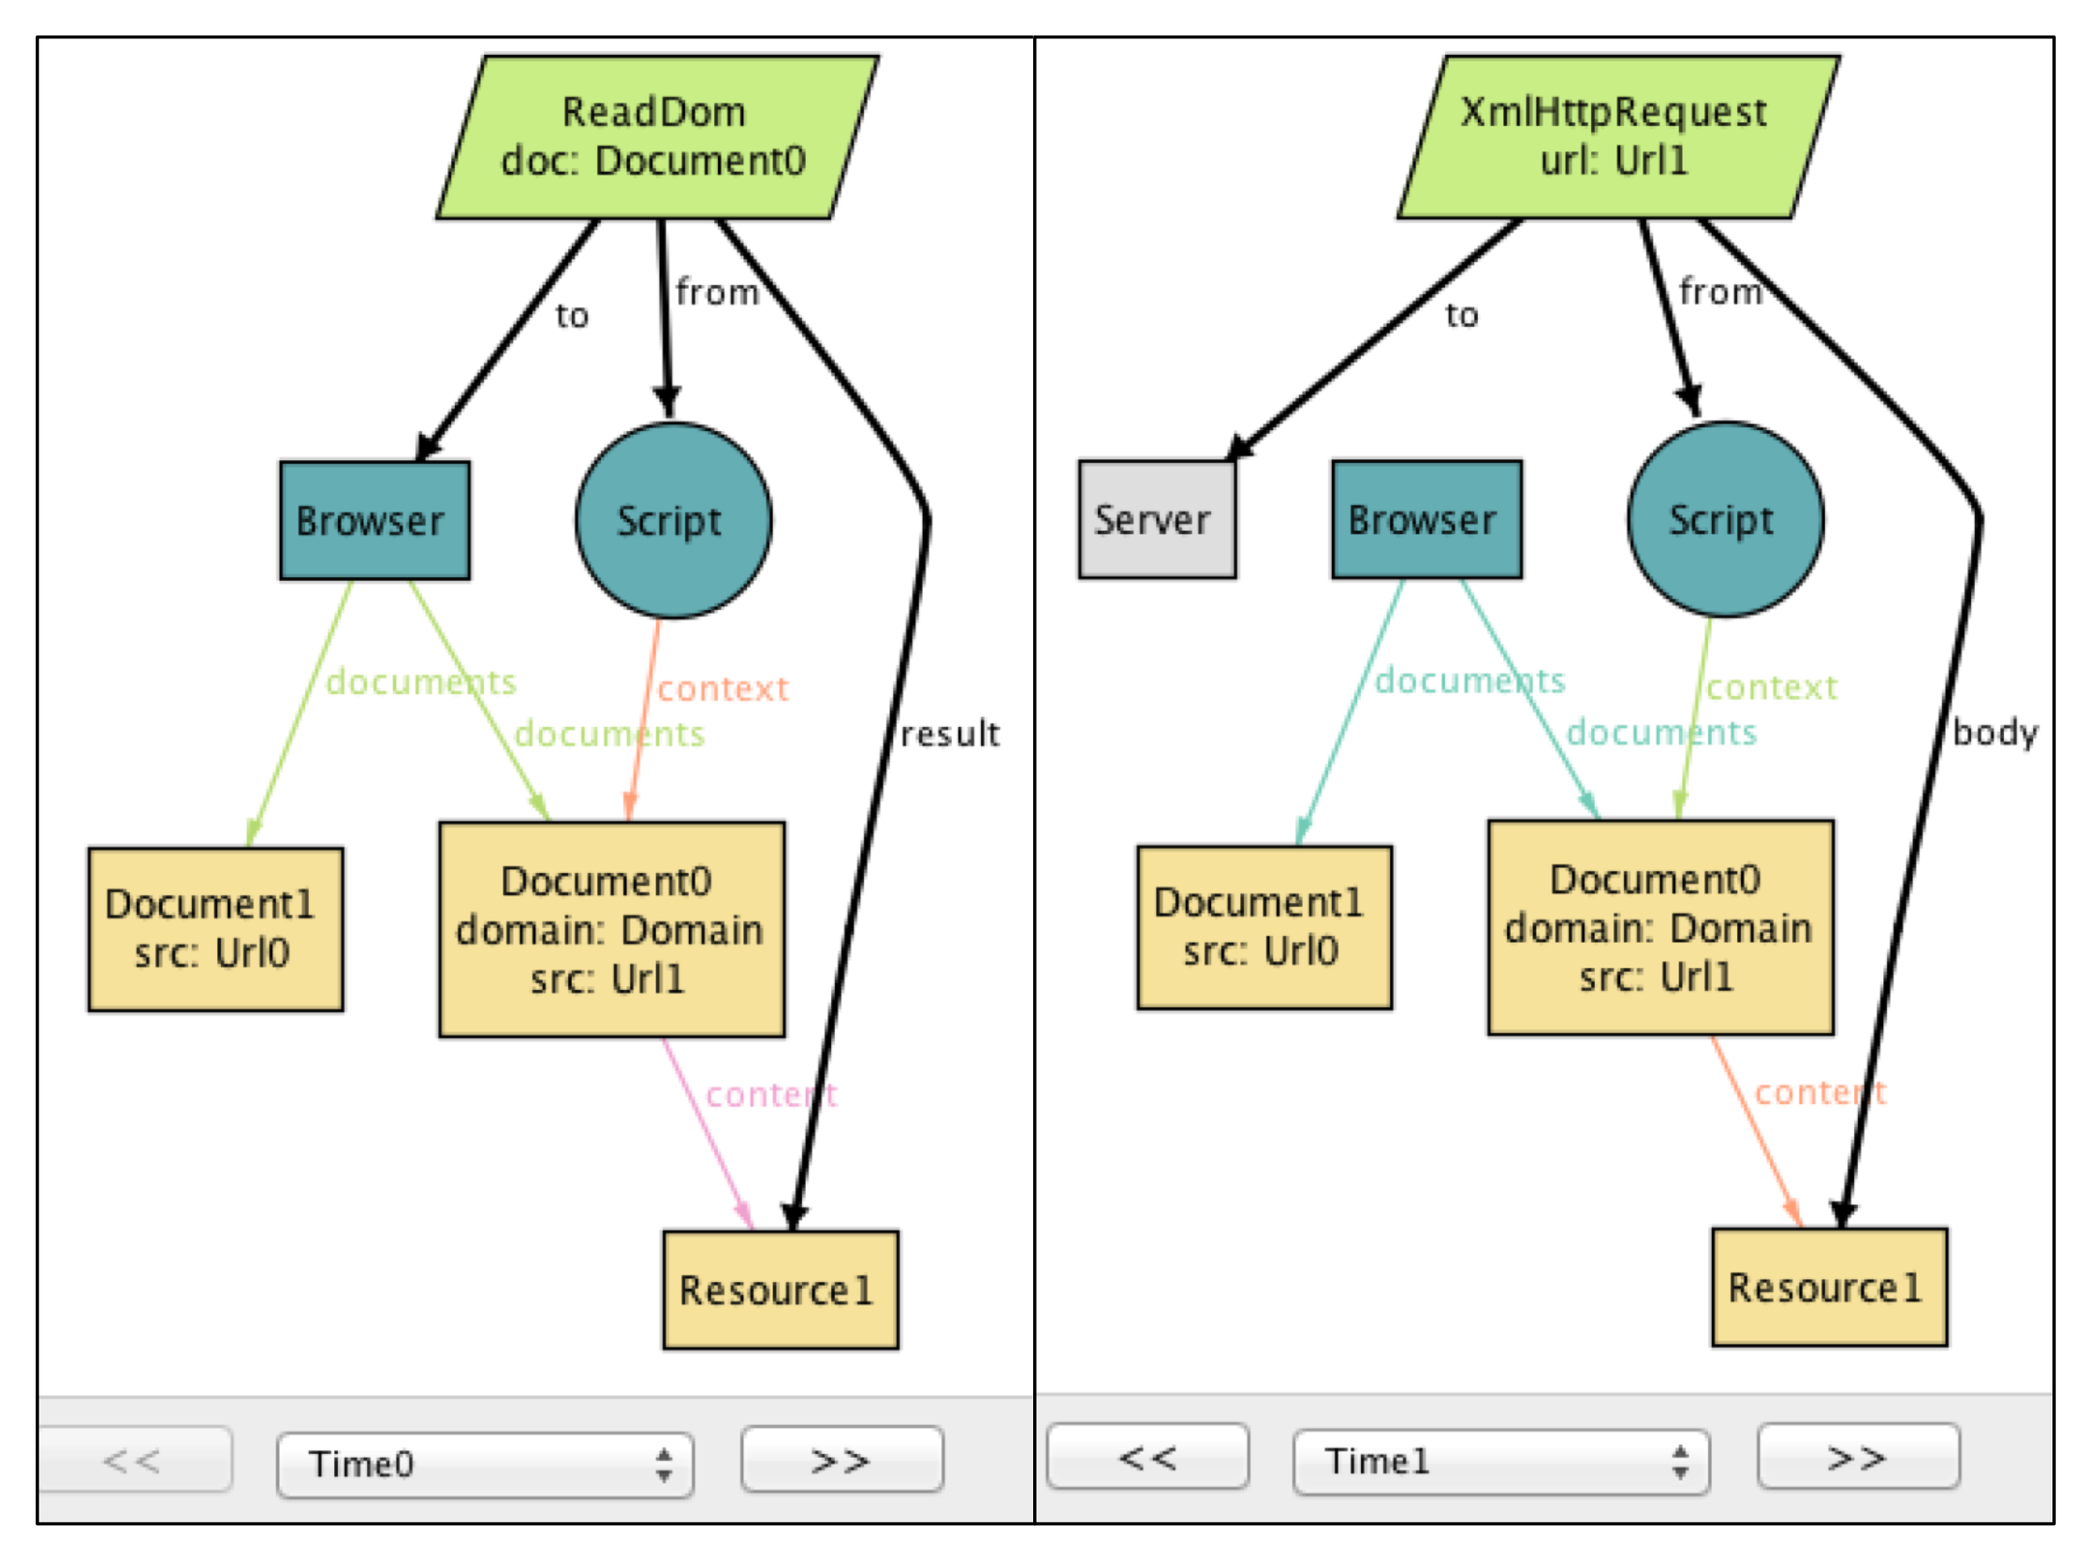
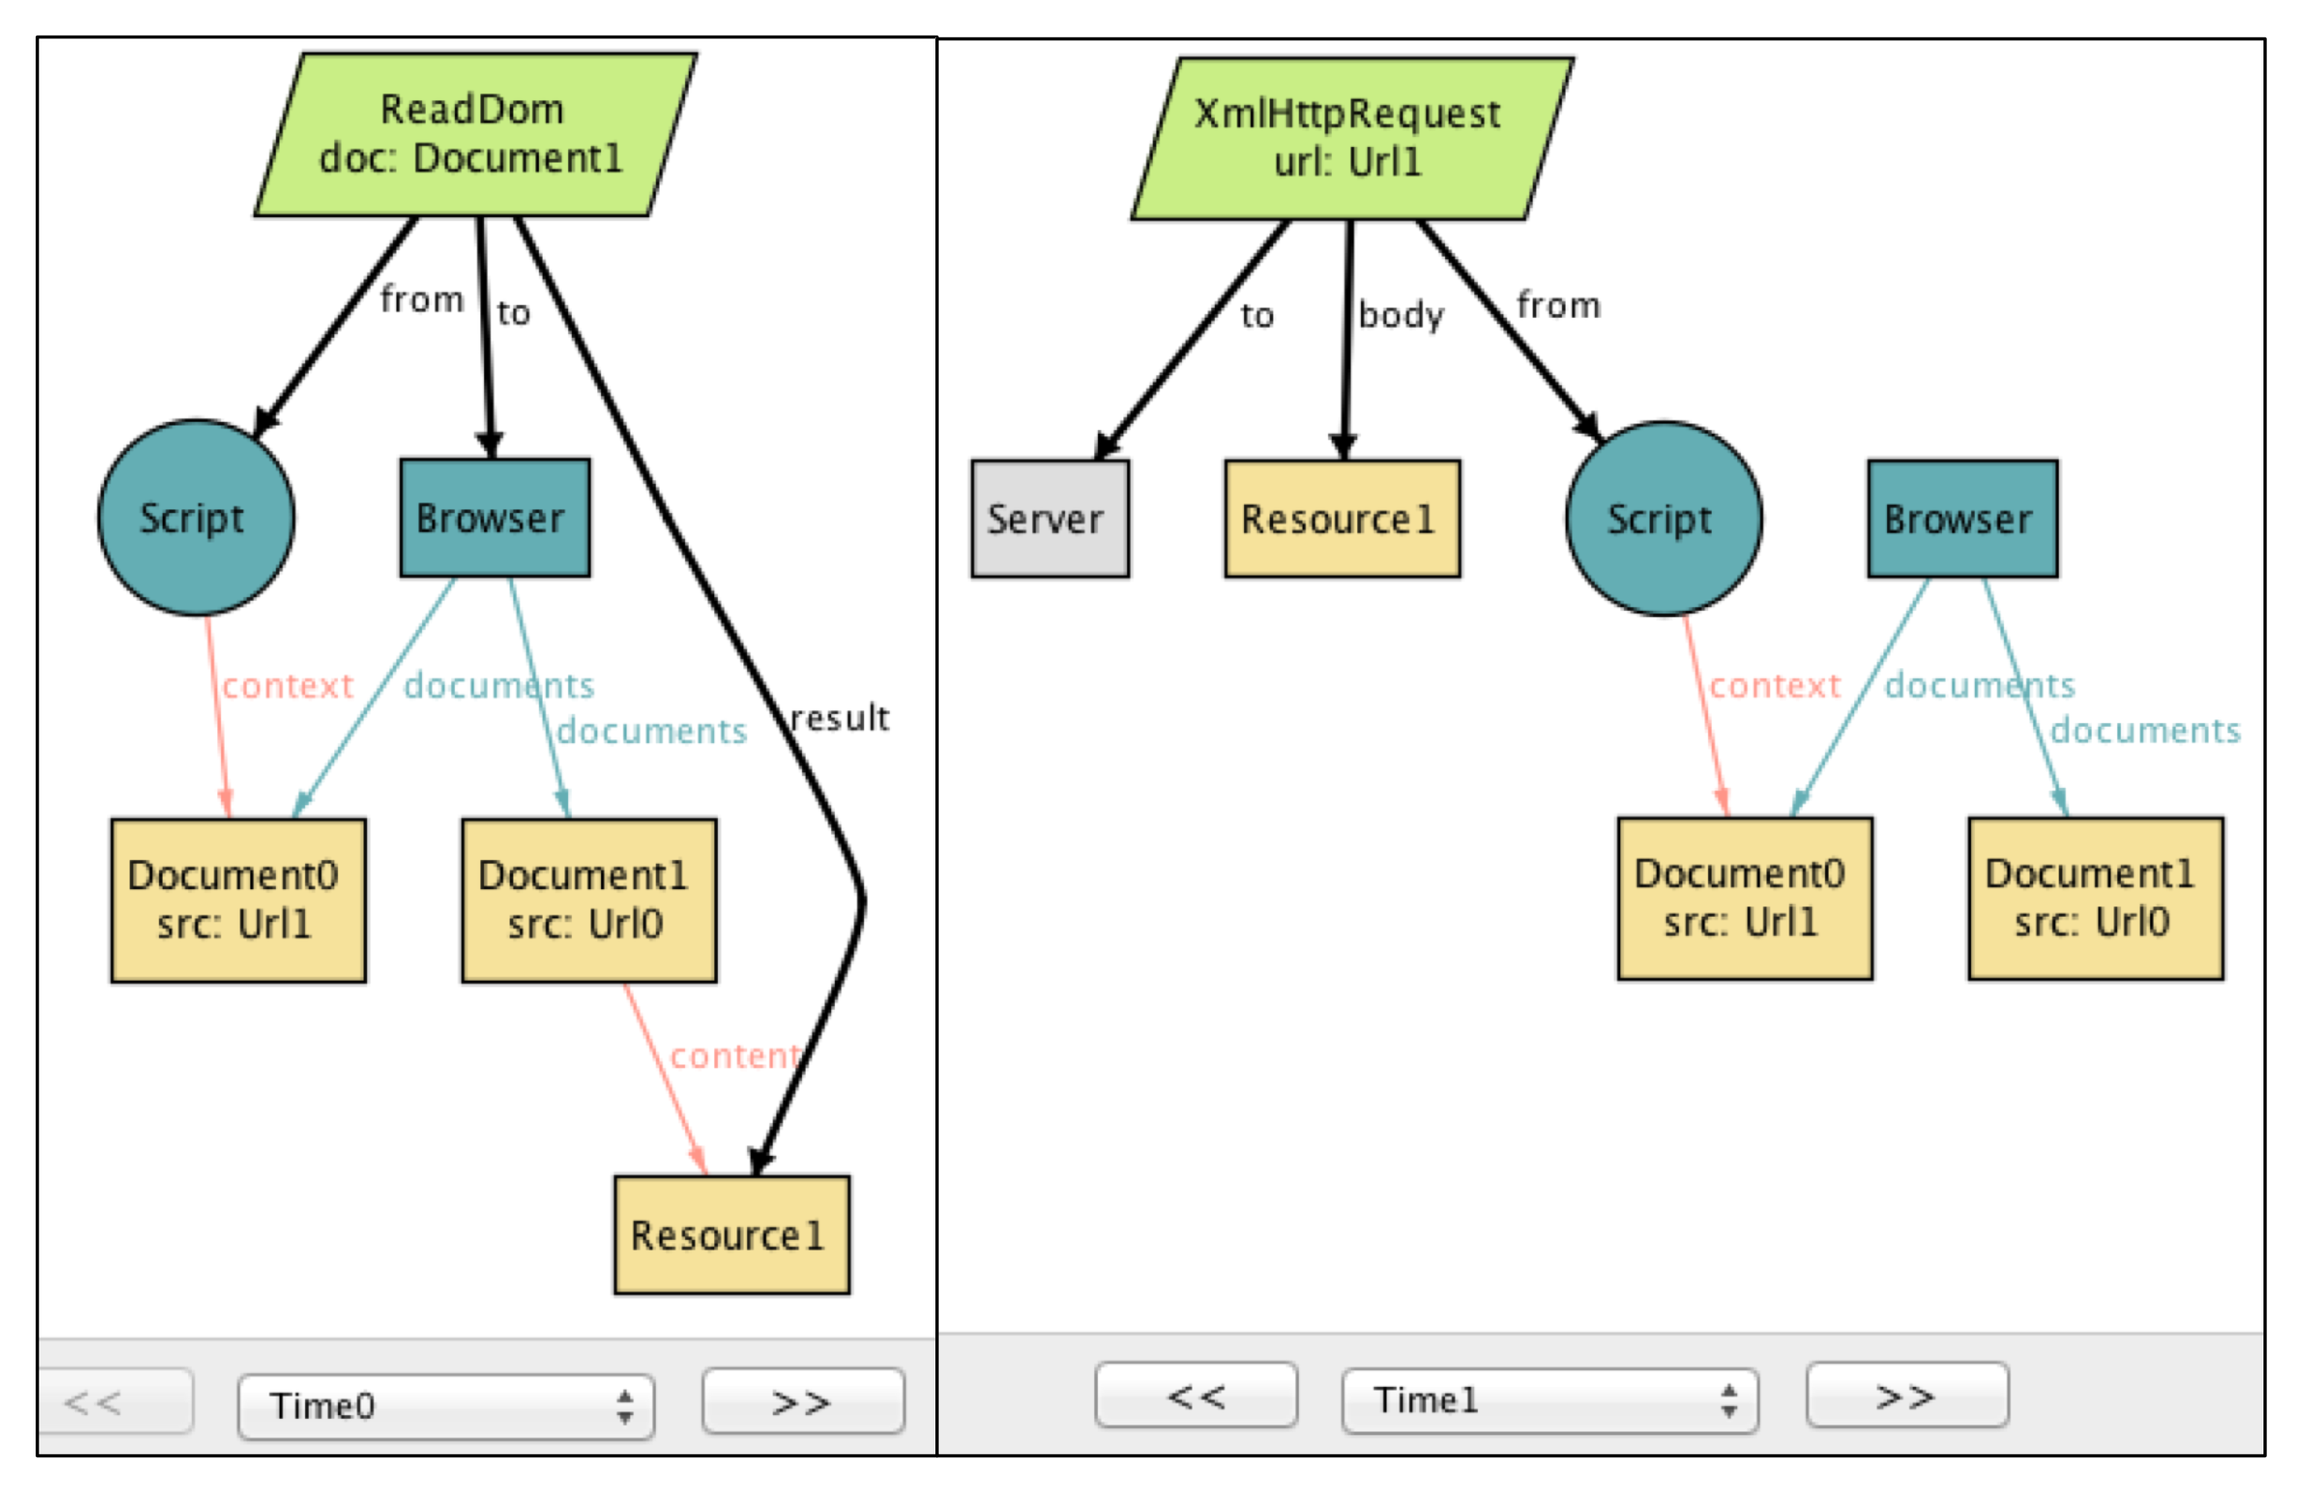
Finished a draft of script and sop; merged the sections into chapter-part1

Changed region(s): [[0.0, 0.0, 0.9939, 1.0], [0.8696, 0.2188, 0.9007, 0.25]]

diff --git a/same-origin-policy/doc/chapter-part1.md b/same-origin-policy/doc/chapter-part1.md
@@ -22,7 +22,7 @@ Because the SOP operates in the context of browsers, servers, the HTTP protocol,
 
 For example, we treat HTTP requests like remote procedure calls, as if they occur at a single point in time, ignoring the fact that responses to requests might come out of order. We also assume that DNS (the domain name service) is static, so we cannot consider attacks in which a DNS binding changes during an interaction. In principle, though, it would be possible to extend our model to cover all these aspects, although it's in the very nature of security analysis that no model (even it represents the entire codebase) can be guaranteed complete.
 
-## The HTTP Protocol
+## HTTP Protocol
 
 The first step in building an Alloy model is to declare some sets of objects. Let's start with resources:
 
@@ -112,7 +112,7 @@ Following the field declarations in `HTTPRequest` is a collection of constraints
 
 Now do some runs...
 
-## The Browser
+## Browser
 
 Let's introduce browsers:
 
@@ -179,3 +179,105 @@ remember that `documents` is a 3-column relation on browsers, documents and time
 ## Reflections
 
 Some reflections on what we've done so far. Note how non-deterministic the model is. `HTTPRequest` and `BrowserHTTPRequest` for example.
+
+## Script
+
+Next, we will build on the HTTP and browser models to introduce *client-side scripts*, which represent a piece of code (typically in Javascript) executing inside a browser document (`context`). 
+```
+sig Script extends Client { context : Document }
+```
+A script is a dynamic entity that can perform two different types of actions: (1) it can make HTTP requests (i.e., Ajax requests) and (2) perform browser operations to manipulate the content and properties of a document. The flexibility of client-side scripts is one of the main catalysts behind the rapid development of Web 2.0, but it's also the reason why the SOP was created in the first place. Without the policy, scripts would be able to send arbitrary requests to servers, or freely modify the documents inside the browser---which would be bad news if one or more of the scripts turned out to be malicious! 
+
+A script can communicate to a server by sending an `XMLHttpRequest`:
+```
+sig XMLHttpRequest extends HttpRequest {}{
+  from in Script
+  noBrowserChange[before, after] and noDocumentChange[before, after]
+}
+```
+An `XMLHttpRequest` can be used by a script to send/receive resources to/from a server, but unlike `BrowserHttpRequest`, it does not immediately result in creation of a new page or other changes to the browser and its documents. To say that a call does not modify the states of the system, we use predicates `noBrowserChange` and `noDocumentChange`:
+```
+pred noBrowserChange[before, after : Time] {
+  documents.after = documents.before and cookies.after = cookies.before  
+}
+pred noDocumentChange[before, after : Time] {
+  content.after = content.before and domain.after = domain.before  
+}
+```
+What kind of actions can a script perform on documents? First, we introduce a generic notion of *browser operations* to represent a set of browser API functions that can be invoked by a script:
+```
+abstract sig BrowserOp extends Call { doc : Document }{
+  from in Script and to in Browser
+  doc + from.context in to.documents.before
+  noBrowserChange[before, after]
+}
+```
+Field `doc` refers to the document that will be accessed or manipulated by this call. The second constraint in the signature facts says that both `doc` and the document in which the script executes (`from.context`) must be documents that currently exist inside the browser. Finally, a `BrowserOp` may modify the state of a document, but not the set of documents or cookies* that are stored in the browser.
+
+(* actually, cookies can be associated with a document and modified using a browser API, but we will omit this detail for now.)
+
+A script can read from and write to various parts of a document (often called DOM elements). In a typical browser, there are a large number of API functions for accessing DOM (e.g., Document.getElementById), but enumerating all of them is not important for our purpose, we will simply group those into two types---`ReadDOM` and `WriteDOM`:
+```
+sig ReadDOM extends BrowserOp { result : Resource }{
+  result = doc.content.before
+  noDocumentChange[before, after]
+}
+sig WriteDOM extends BrowserOp { new_dom : Resource }{
+  content.after = content.before ++ doc -> new_dom
+  domain.after = domain.before
+}
+```
+`ReadDOM` returns the content the target document, but does not modify it; `WriteDOM`, on the other hand, sets the new content of the target document to `new_dom`.
+
+In addition, a script can modify various properties of a document, such as its width, height, domain, and title. For the discussion of the SOP, we are only interested in the domain property, which can be modified by scripts using `SetDomain` function:
+```
+sig SetDomain extends BrowserOp { new_domain : set Domain }{
+  doc = from.context
+  domain.after = domain.before ++ doc -> new_domain
+  content.after = content.before
+}
+```
+Why would you ever want to modify the domain property of a document? It turns out that this is one popular (but rather ad hoc) way of bypassing the SOP and allow cross-domain communication, which we will discuss in a later section.
+
+Let's ask the Alloy Analyzer to generate scenarios with scripts in action:
+```
+run { some BrowserOp and some XmlHttpRequest} for 3 
+```
+One of the scenarios that it generates is as follows:
+
+![script-scenario-1](fig-script-1.png)
+
+In the first time step, `Script`, executing inside `Document0` from `Url1`, reads the content of another document from a different origin (`Url0`). Then, it sends the same content, `Resource1`, to `Server` by making an `XmlHtttpRequest` call. Imagine that `Document1` is your banking page, and `Document0` is an online forum injected with a malicious piece of code, `Script`. Clearly, this is not a desirable scenario, since your sensitive banking inforrmation is being relayed to a malicious server!
+
+Another scenario shows `Script` making an `XmlHttpRequest` to a server with a different domain:
+
+![script-scenario-2](fig-script-2.png)
+
+Note that the request includes a cookie, which is scoped to the same domain as the destination server. This is potentially dangerous, because if the cookie is used to represent your identity (e.g., a session cookie), `Script` can effectively pretend to be you and trick the server into responding with your private data!
+
+These two scenarios tell us that extra measures are needed to restrict the behavior of scripts, especially since some of those scripts could be malicious. This is exactly where the SOP comes in.
+
+## Same Origin Policy
+
+Before we can state the SOP, the first thing we should do is to define what it means for two pages to have the *same* origin. Two URLs refer to the same origin if and only if they share the same hostname, protocol, and port:
+```
+pred sameOrigin[u1, u2 : URL] {
+  u1.host = u2.host and u1.protocol = u2.protocol and u1.port = u2.port
+}
+```
+The SOP itself has two parts, restricting the ability of a script to (1) make DOM AP calls and (2) send HTTP requests. The first part of the policy states that a script can only read from and write to a document that comes from the same origin as the script:
+```
+pred domSOP { all c: ReadDOM + WriteDOM | sameOrigin[c.doc.src, c.from.context.src] }
+```
+A scenario such as ["Script Scenario #1"] is not possible under `domSOP`, since `Script` is not allowed to invoke `ReadDOM` on a document from a different origin.
+
+The second part of the policy says that a script cannot send an HTTP request to a server unless its context has the same origin as the target URL---effectively preventing scenarios such as ["Script Scenario #2"].
+```
+pred xmlHttpReqSop { all x: XmlHttpRequest | sameOrigin[x.url, x.from.context.src] }
+
+```
+As we can see, the SOP is designed to prevent the two types of vulnerabilities that could arise from actions of a malicious script; without it, the web would be a much more dangerous place than it is today.
+
+It turns out, however, that the SOP can be *too* restrictive. For example, sometimes you *do* want to allow communication between two documents of different origins. By the above definition of an origin, a script from `foo.example.com` would not be able to read the content of `bar.example.com`, or send a HTTP request to `www.example.com`, because these are all considered distinct hosts. 
+
+In order to allow some form of cross-origin communication when necessary, browsers implemented a variety of mechanisms for relaxing the SOP. Some of these are more well-thought-out than others, and some have serious flaws that, when badly used, could negate the security benefits of the SOP. In the following sections, we will describe the most common of these mechanisms, and discuss their potential security pitfalls.

diff --git a/same-origin-policy/doc/sop.md b/same-origin-policy/doc/sop.md
@@ -1,4 +1,4 @@
-### Same Origin Policy
+## Same Origin Policy
 
 Before we can state the SOP, the first thing we should do is to define what it means for two pages to have the *same* origin. Two URLs refer to the same origin if and only if they share the same hostname, protocol, and port:
 ```
@@ -6,16 +6,19 @@ pred sameOrigin[u1, u2 : URL] {
   u1.host = u2.host and u1.protocol = u2.protocol and u1.port = u2.port
 }
 ```
-The policy itself has two parts, constraining the ability of a script to (1) make DOM AP calls and (2) send HTTP requests. More specifically, the first part of the policy states that a script can only read and write to a DOM inside a frame that comes from the same origin as the script:
+The SOP itself has two parts, restricting the ability of a script to (1) make DOM AP calls and (2) send HTTP requests. The first part of the policy states that a script can only read from and write to a document that comes from the same origin as the script:
 ```
-pred domSOP {
-  all d : browser/ReadDOM + browser/WriteDOM | sameOrigin[d.frame.location, d.from.context]
-}
+pred domSOP { all c: ReadDOM + WriteDOM | sameOrigin[c.doc.src, c.from.context.src] }
 ```
-The second part of the policy prevents a script from sending an HTTP request (i.e., XMLHTTPRequest) to a server unless the script belongs to the same origin as the destination URL: 
+A scenario such as ["Script Scenario #1"] is not possible under `domSOP`, since `Script` is not allowed to invoke `ReadDOM` on a document from a different origin.
+
+The second part of the policy says that a script cannot send an HTTP request to a server unless its context has the same origin as the target URL---effectively preventing scenarios such as ["Script Scenario #2"].
 ```
-pred xmlhttpreqSOP {
-  all x : browser/XMLHTTPReq | sameOrigin[x.url, x.from.context]
-}
+pred xmlHttpReqSop { all x: XmlHttpRequest | sameOrigin[x.url, x.from.context.src] }
+
 ```
-But why exactly are these restrictions necessary? What would be consequences if today's browsers hadn't enforced to the policy? In the next section, we will see how the Alloy Analyer can be used to answer these types of questions.
+As we can see, the SOP is designed to prevent the two types of vulnerabilities that could arise from actions of a malicious script; without it, the web would be a much more dangerous place than it is today.
+
+It turns out, however, that the SOP can be *too* restrictive. For example, sometimes you *do* want to allow communication between two documents of different origins. By the above definition of an origin, a script from `foo.example.com` would not be able to read the content of `bar.example.com`, or send a HTTP request to `www.example.com`, because these are all considered distinct hosts. 
+
+In order to allow some form of cross-origin communication when necessary, browsers implemented a variety of mechanisms for relaxing the SOP. Some of these are more well-thought-out than others, and some have serious flaws that, when badly used, could negate the security benefits of the SOP. In the following sections, we will describe the most common of these mechanisms, and discuss their potential security pitfalls.

diff --git a/same-origin-policy/doc/script.md b/same-origin-policy/doc/script.md
@@ -1,4 +1,4 @@
-### Script
+## Script
 
 Next, we will build on the HTTP and browser models to introduce *client-side scripts*, which represent a piece of code (typically in Javascript) executing inside a browser document (`context`). 
 ```
@@ -57,4 +57,20 @@ sig SetDomain extends BrowserOp { new_domain : set Domain }{
 ```
 Why would you ever want to modify the domain property of a document? It turns out that this is one popular (but rather ad hoc) way of bypassing the SOP and allow cross-domain communication, which we will discuss in a later section.
 
-[Show some cross-domain communications]
+Let's ask the Alloy Analyzer to generate scenarios with scripts in action:
+```
+run { some BrowserOp and some XmlHttpRequest} for 3 
+```
+One of the scenarios that it generates is as follows:
+
+![script-scenario-1](fig-script-1.png)
+
+In the first time step, `Script`, executing inside `Document0` from `Url1`, reads the content of another document from a different origin (`Url0`). Then, it sends the same content, `Resource1`, to `Server` by making an `XmlHtttpRequest` call. Imagine that `Document1` is your banking page, and `Document0` is an online forum injected with a malicious piece of code, `Script`. Clearly, this is not a desirable scenario, since your sensitive banking inforrmation is being relayed to a malicious server!
+
+Another scenario shows `Script` making an `XmlHttpRequest` to a server with a different domain:
+
+![script-scenario-2](fig-script-2.png)
+
+Note that the request includes a cookie, which is scoped to the same domain as the destination server. This is potentially dangerous, because if the cookie is used to represent your identity (e.g., a session cookie), `Script` can effectively pretend to be you and trick the server into responding with your private data!
+
+These two scenarios tell us that extra measures are needed to restrict the behavior of scripts, especially since some of those scripts could be malicious. This is exactly where the SOP comes in.
